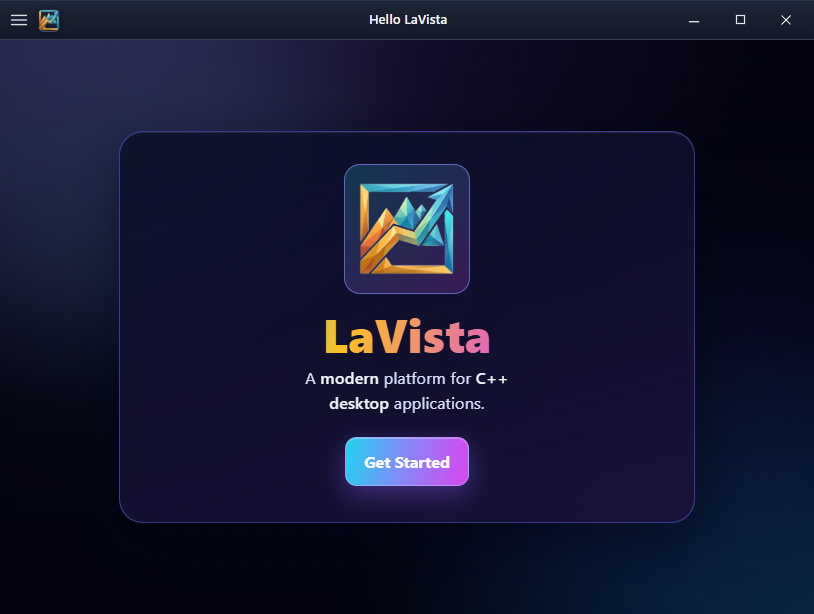
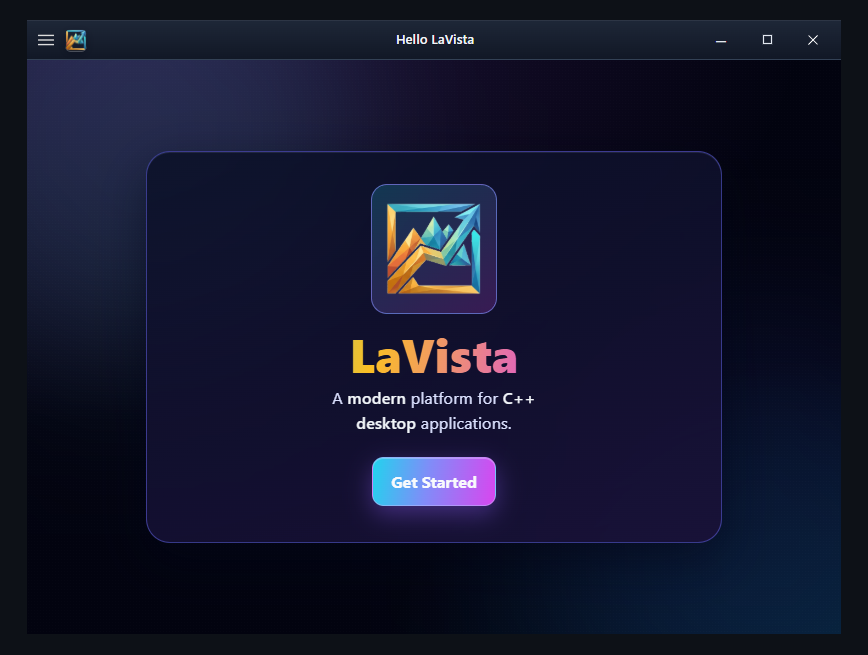
[WORKFLOW]: Update CI

Changed region(s): [[0.1229, 0.1857, 0.86, 0.8664], [0.0, 0.0, 1.0, 0.4642], [0.7371, 0.7117, 1.0, 1.0]]

diff --git a/examples/embedded-iavis/cpp/main.cpp b/examples/embedded-iavis/cpp/main.cpp
@@ -29,7 +29,7 @@ auto run_app() -> Result<void>
   win_opts.spa_bundle_path = "examples/embedded-iavis/ui/dist";
   win_opts.icon_path = "examples/embedded-iavis/ui/public/logo-mark.png";
   win_opts.width = 1000;
-  win_opts.height = 800;
+  win_opts.height = 900;
 
   AU_TRY_VAR(window, LaVista::create_window(win_opts));
 

diff --git a/README.md b/README.md
@@ -17,8 +17,12 @@ LaVista is a C++20 library designed to host single-page application (SPA) bundle
 Under the hood, LaVista is built on [LibAuxid](https://github.com/I-A-S/Auxid) (an Orthodox C++ core), leverages [webview](https://github.com/webview/webview) for the embedded browser, and uses [stb_image](https://github.com/nothings/stb) for window icon decoding. Other platforms currently use a minimal stub for development, but primary support and CI are focused on Windows and Linux x64.
 
 <p align="center">
-  <img src="example-bg-black.png" alt="LaVista sample window with host title bar and SPA content"/>
+  <img src="example.png" alt="LaVista sample window with host title bar and SPA content"/>
 </p>
+<p align="center">
+  <img src="example-embedded-iavis.png" alt="LaVista sample window with host title bar and SPA content with IAVis embedded, off-screen rendering to a canvas"/>
+</p>
+
 
 ## Features
 